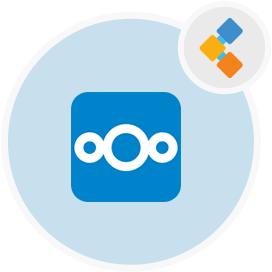
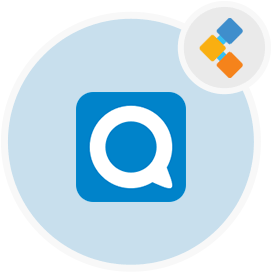
nextcloud talk images updated

Changed region(s): [[0.2353, 0.3235, 0.7059, 0.7647], [0.2941, 0.3235, 0.3235, 0.3529]]

diff --git a/en/video-conferencing/nextcloud-talk/_index.md b/en/video-conferencing/nextcloud-talk/_index.md
@@ -9,7 +9,7 @@ Imagetext:  Free Video Conferencing Software
 draft: false
 weight: 6
 layout: "single"
-GithubLink: https://github.com/nextcloud/server
+GithubLink: https://github.com/nextcloud/spreed
 HomePage_TitleText: Video Conferencing Software
 
 ListingPage_MenuImage_TitleText: open source video conferencing software
